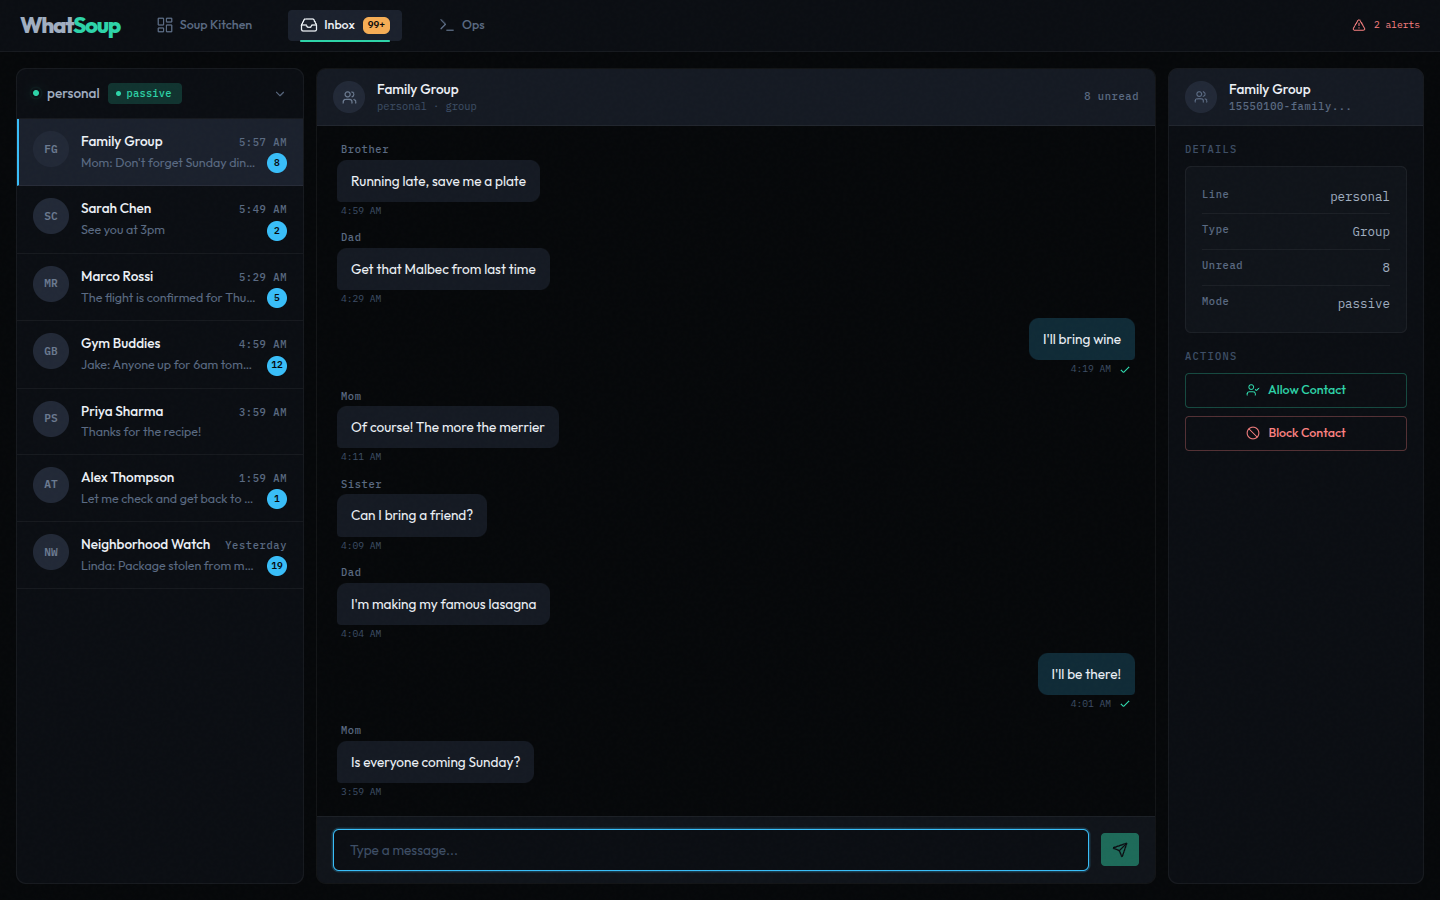
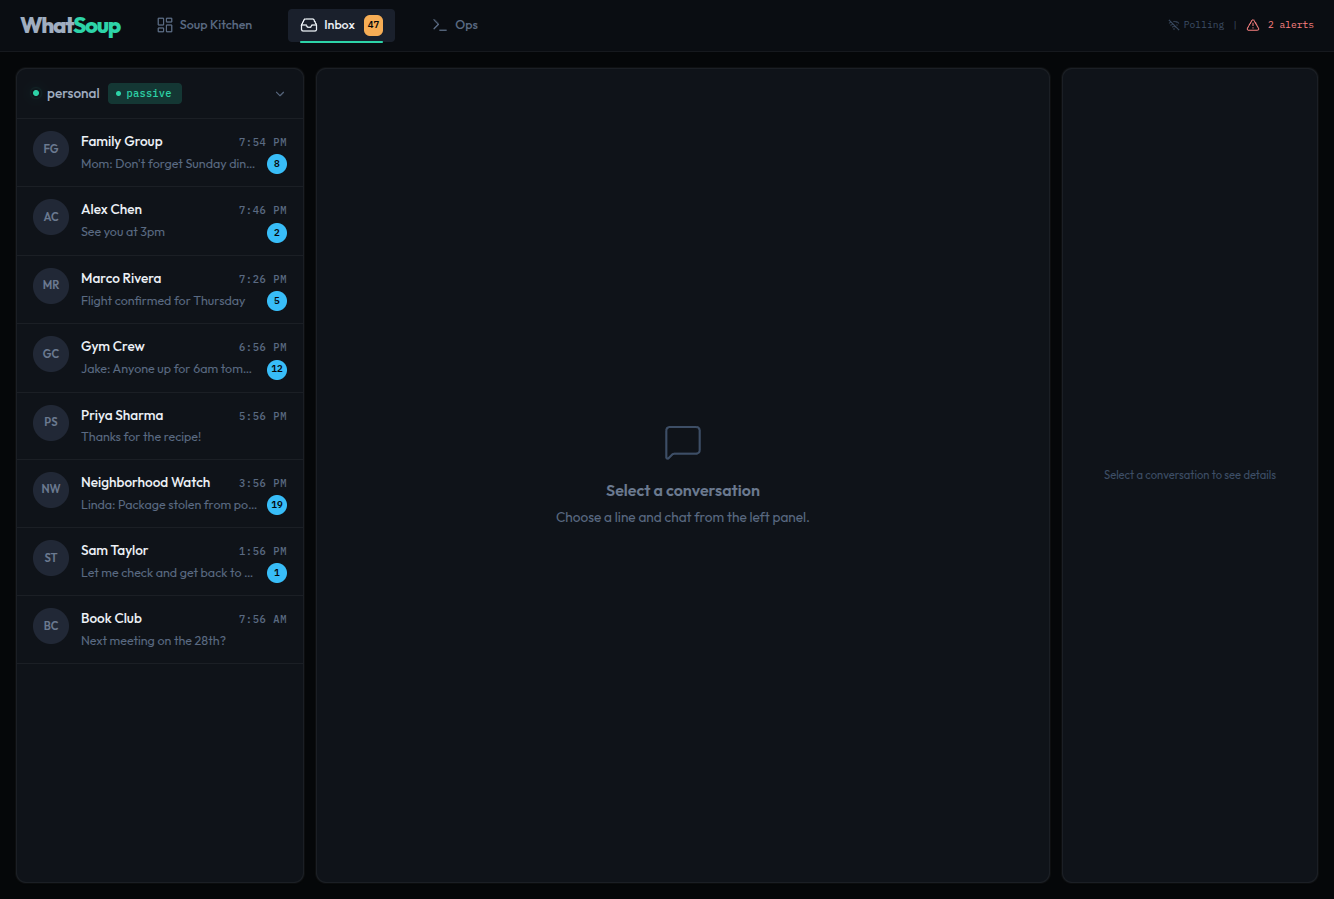
docs: refresh screenshots with mock data, add metrics tab to README
All screenshots now use built-in mock data (no real PII). Added line
detail metrics screenshot showing bar chart + heatmap + tabbed views.

diff --git a/README.md b/README.md
@@ -22,9 +22,15 @@ A React dashboard for managing the entire fleet from a browser. Runs on the same
 
 ### Fleet Overview
 
-KPI cards, connection table, heartbeat strips, and live activity feed across all instances.
+KPI cards with sparklines, three fleet-wide charts (message volume, token usage by provider, session activity by provider), instance table with provider column, and live activity feed.
 
 ![Fleet Overview](docs/screenshots/fleet-overview.png)
+
+### Line Detail — Metrics
+
+Per-instance metrics with stacked bar chart, active hours heatmap, and tabbed token/session detail views.
+
+![Line Detail Metrics](docs/screenshots/line-detail-metrics.png)
 
 ### Operations
 
